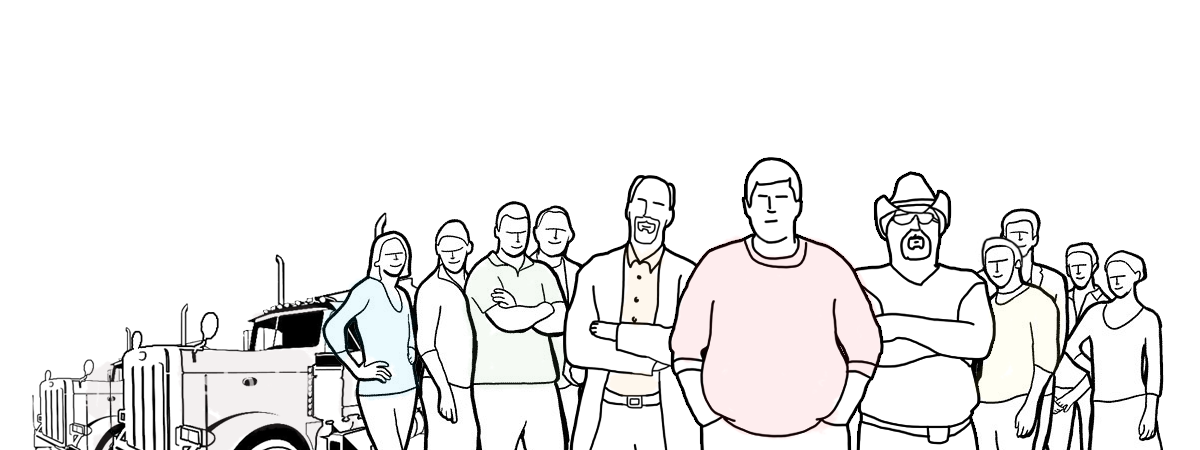
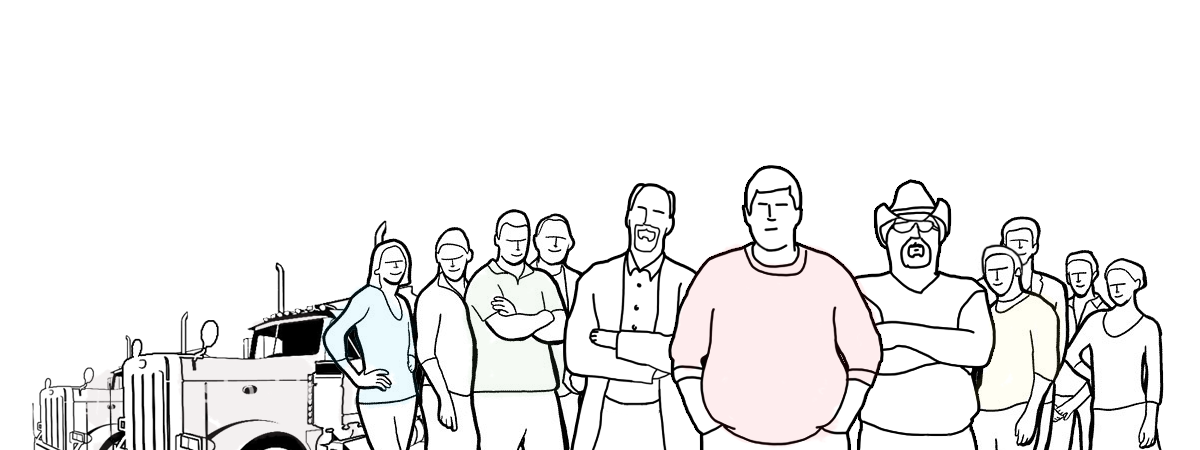
color change

Changed region(s): [[0.0, 0.3422, 0.9867, 1.0], [0.2158, 0.56, 0.2467, 0.6222]]

diff --git a/css/main.css b/css/main.css
@@ -70,7 +70,7 @@ html, body {
   height: 100%;
   font-family: "Montserrat";
   -webkit-font-smoothing: antialiased;
-  color: #283549;
+  color: #252525;
   font-weight: 400;
 }
 
@@ -122,7 +122,7 @@ section {
   font-size: 20px;
   line-height: 30px;
   margin-bottom: 20px;
-  color: #283549;
+  color: #252525;
   letter-spacing: -0.75px;
 }
 .col-75 p {
@@ -137,7 +137,7 @@ section {
   padding: 0 30px;
   border: none;
   border-radius: 8px;
-  background: #283549;
+  background: #252525;
   color: white;
   font-size: 20px;
   line-height: 50px;
@@ -173,7 +173,7 @@ header .btn_primary {
 }
 
 h3.main-content_heading {
-  padding: 60px 0 60px 0;
+  padding: 30px 0 60px 0;
   font-size: 35px;
   line-height: 45px;
   width: 100%;
@@ -193,7 +193,7 @@ h3.main-content_heading {
   height: 100%;
   max-height: 650px;
   min-height: 650px;
-  background: #ecf2f3 url(../img/drivers.png) no-repeat bottom center;
+  background: #ebebeb url(../img/drivers.png) no-repeat bottom center;
   color: white;
 }
 .hero .hero-copy {
@@ -207,7 +207,7 @@ h3.main-content_heading {
   line-height: 55px;
   max-width: 850px;
   margin: 0 auto 0 auto;
-  color: #283549;
+  color: #252525;
   letter-spacing: -0.75px;
 }
 .hero .hero-copy img {
@@ -219,7 +219,7 @@ h3.main-content_heading {
 
 .contact-form {
   padding: 140px 0;
-  background: #283549;
+  background: #252525;
   text-align: center;
 }
 .contact-form h3 {

diff --git a/sass/_globals.scss b/sass/_globals.scss
@@ -165,7 +165,7 @@ footer{
     padding:40px 0 100px 0;
 }
 h3.main-content_heading{
-    padding:60px 0 60px 0;
+    padding:30px 0 60px 0;
     font-size:35px;
     line-height:45px;
     width:100%;
@@ -183,7 +183,7 @@ h3.main-content_heading{
     height:100%;
     max-height:650px;
     min-height:650px;
-    background:#ecf2f3 url(../img/drivers.png) no-repeat bottom center;
+    background:#ebebeb url(../img/drivers.png) no-repeat bottom center;
     color:white;
     .hero-copy{
         position:absolute;

diff --git a/index.html b/index.html
@@ -122,6 +122,7 @@ every dollar you spend.
 	    			<div class="field"><input type="email" placeholder="Your email"></div>
 	    			<div class="field"><input type="text" placeholder="Your name"></div>
 	    			<div class="field"><input type="text" placeholder="Company name"></div>
+	    			<div class="field"><input type="text" placeholder="Phone(optional)"></div>
 	    			<div class="field"><button class="btn_primary" type"submit">Contact Me</button></div>
 	    		</form>
 	    		

diff --git a/sass/_variables.scss b/sass/_variables.scss
@@ -1,6 +1,6 @@
 $easeOutExpo:cubic-bezier(0.19, 1, 0.22, 1); /* easeOutExpo */
 $easeInOutExpo:cubic-bezier(1.000, 0.000, 0.000, 1.000); /* easeInOutExpo */
-$blue:#283549;
+$blue:#252525;
 $blue_light:#28b222;
 $gray:#afb2b7;
 $yellow:#6bbb48;
